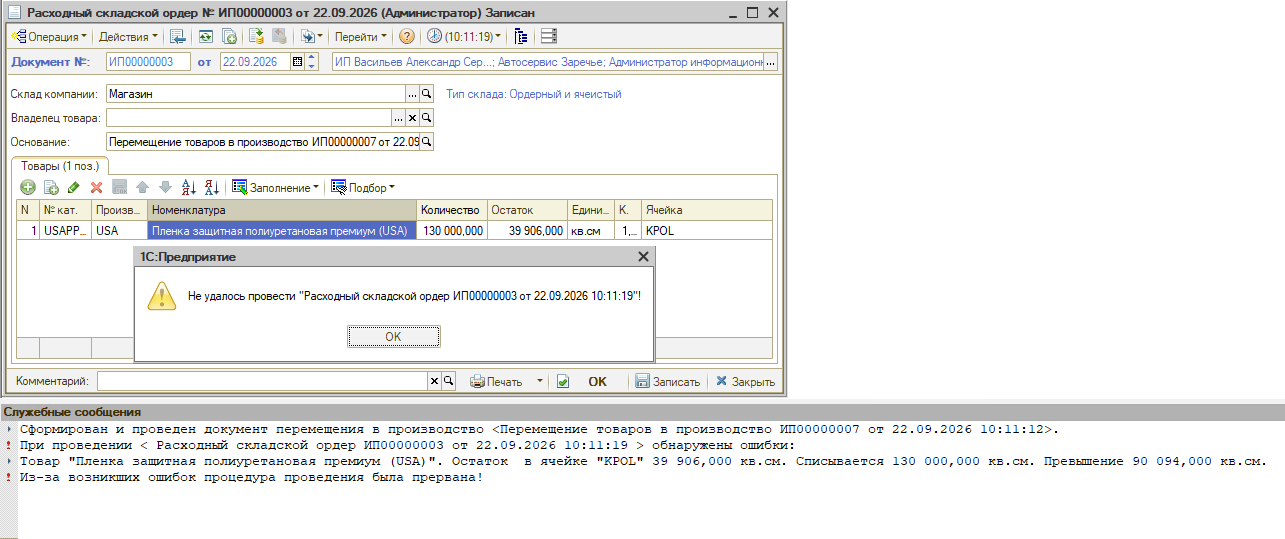
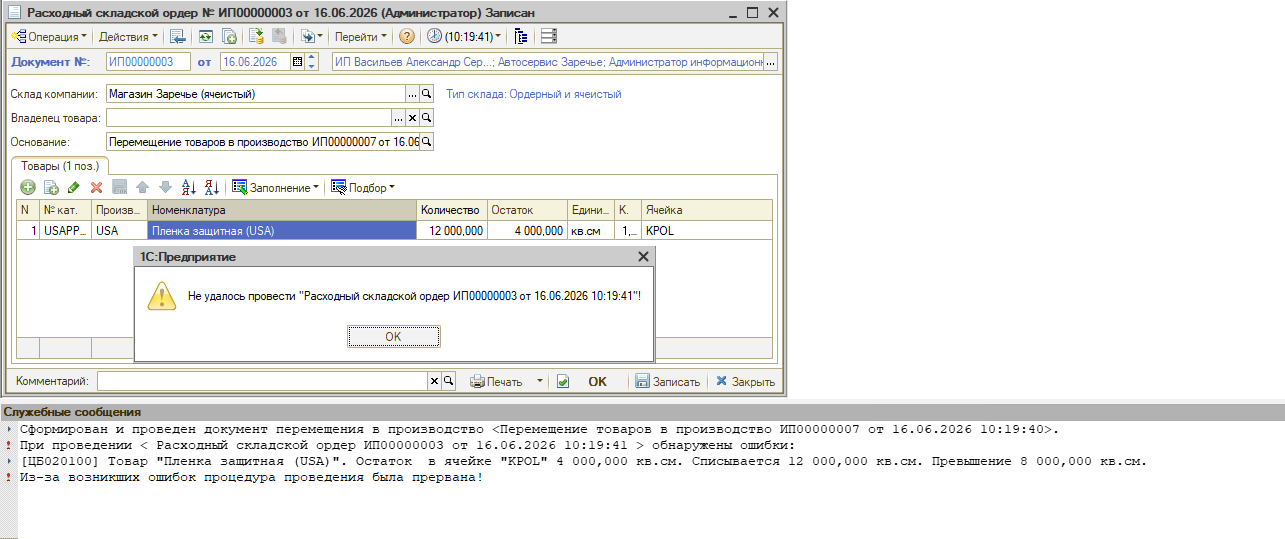
Совет «Не удалось провести расходный складской ордер» (Katya, черновик): скрины 01–05 по образцам на согласованных вымышленных данных; скрин ввода приходного ордера на основании; в примере ошибки числа заменены на <остаток>, <количество>, <превышение>, добавлен <код> (Катя, 06.11.2026).

diff --git a/tips/5S AUTO/Склад и запчасти/Не удалось провести расходный складской ордер/ne-udalos-provesti-rashodnyy-skladskoy-order.md b/tips/5S AUTO/Склад и запчасти/Не удалось провести расходный складской ордер/ne-udalos-provesti-rashodnyy-skladskoy-order.md
@@ -6,15 +6,13 @@
 
 При перемещении товаров в производство из заказ-наряда не проводится расходный складской ордер, хотя товара на складе хватает: в окне **«Материалы»** заказ-наряда (открывается из ячейки «Материалы» в таблице «Работы») в колонке **«Остаток»** указано больше, чем нужно списать:
 
-![Заказ-наряд: остаток товара больше количества к списанию](attachments/01-ostatok-v-zakaz-naryade.jpg)
-
-> 🛠 Комментарий для черновика: *Временный скрин – фото экрана из тикета, ФИО в заголовке затерто. Переснять в тестовой базе: заказ-наряд, окно «Материалы» (из ячейки «Материалы» в таблице «Работы») – в строке товара колонка «Остаток» больше колонки «Количество».*
+![Заказ-наряд: остаток товара больше количества к списанию](attachments/01-ostatok-v-zakaz-naryade.png)
 
 Программа выводит сообщение *«Не удалось провести "Расходный складской ордер …"»*, а в служебных сообщениях – превышение остатка в ячейке:
 
 ![Сообщение об ошибке при проведении расходного складского ордера](attachments/02-oshibka-provedeniya-rashodnogo-ordera.png)
 
-*Товар "<номенклатура>". Остаток в ячейке "<ячейка>" 39 906,000 кв.см. Списывается 130 000,000 кв.см. Превышение 90 094,000 кв.см.*
+*[<код>] Товар "<номенклатура>". Остаток в ячейке "<ячейка>" <остаток> <ед. изм.>. Списывается <количество> <ед. изм.>. Превышение <превышение> <ед. изм.>.*
 
 *Из-за возникших ошибок процедура проведения была прервана!*
 
@@ -38,9 +36,9 @@
 
 **2. Введите приходный складской ордер.**
 
-В документе поступления нажмите **«Ввести на основании»** и выберите **«Приходный складской ордер»**. Проверьте склад и ячейку – товар должен поступить в ту ячейку, из которой его списывает расходный ордер (она указана в сообщении об ошибке). Проведите приходный ордер.
+В документе поступления нажмите **«Ввести на основании»** и выберите **«Приходный складской ордер»**. Проверьте склад и ячейку – товар должен поступить в ту ячейку, из которой его списывает расходный ордер (она указана в сообщении об ошибке). Проведите приходный ордер:
 
-> 🛠 Комментарий для черновика: *Нет скрина. Снять в тестовой базе: в «Вводе остатков товаров» меню «Ввести на основании» с пунктом «Приходный складской ордер» (проверить, что он там есть) и заполненный приходный ордер с колонкой «Ячейка».*
+![Ввод приходного складского ордера на основании ввода остатков](attachments/05-vvedenie-prihodnogo-ordera-na-osnovanii.png)
 
 **3. Проведите расходный складской ордер.**
 
